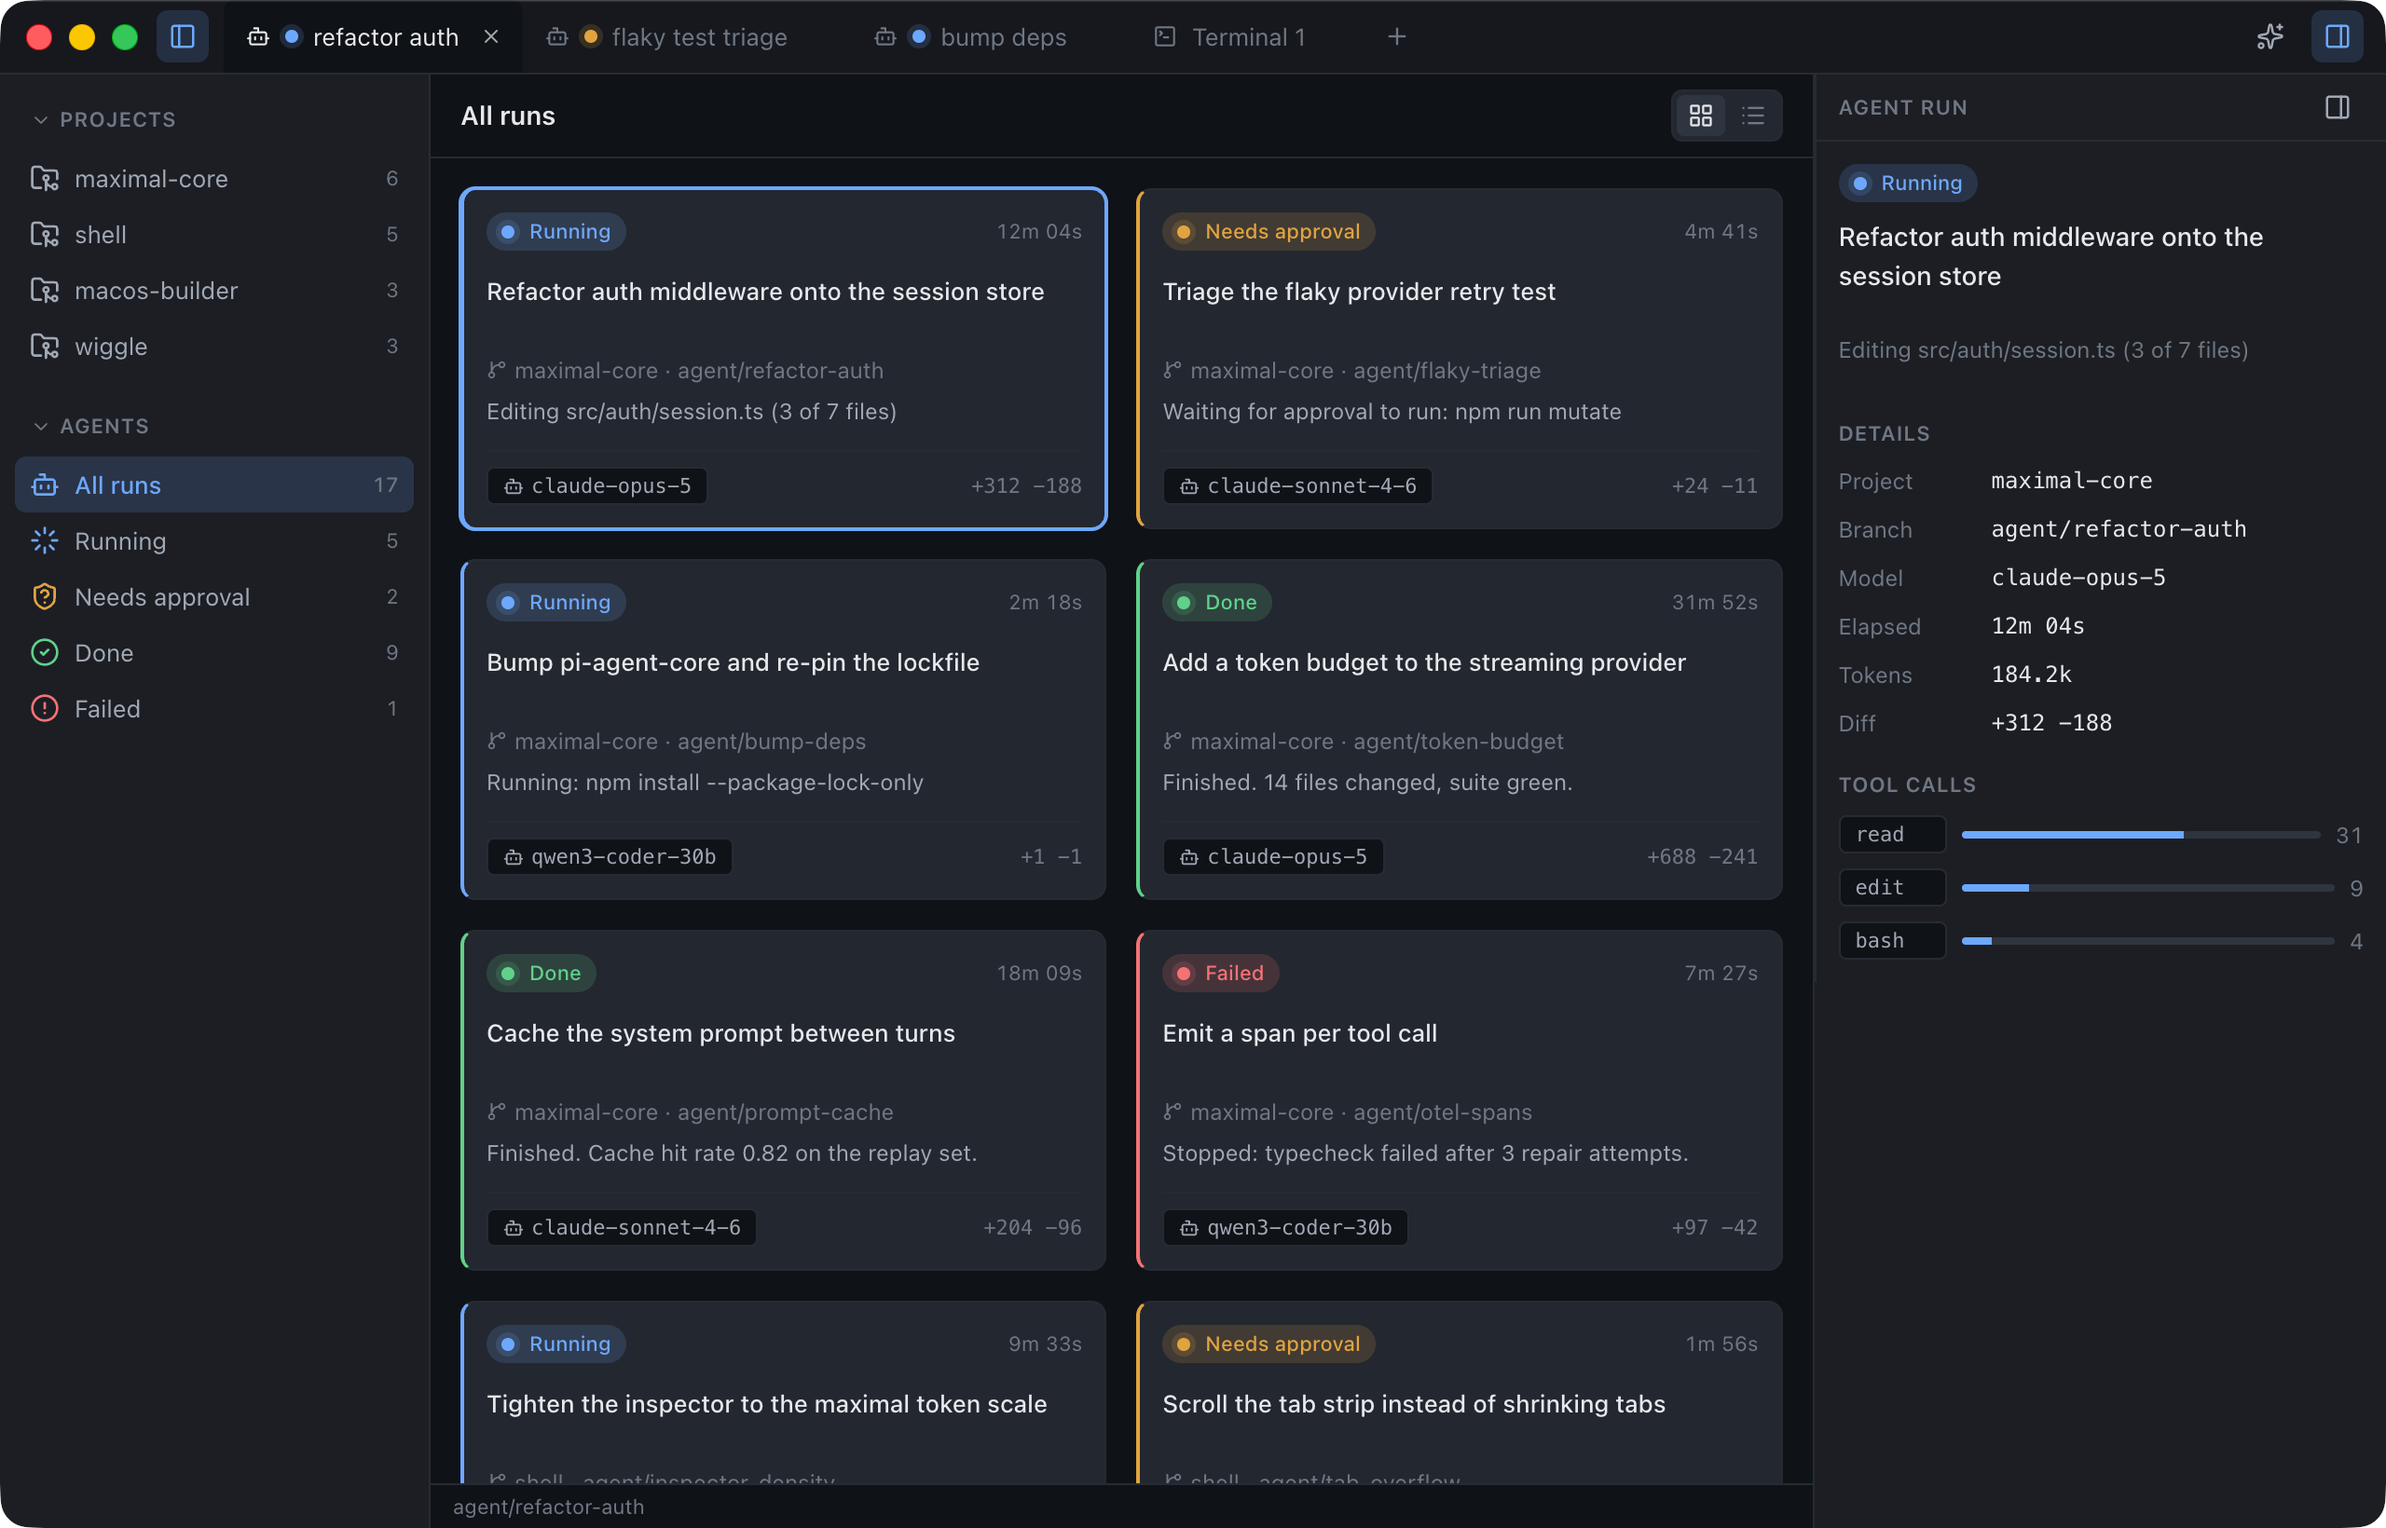
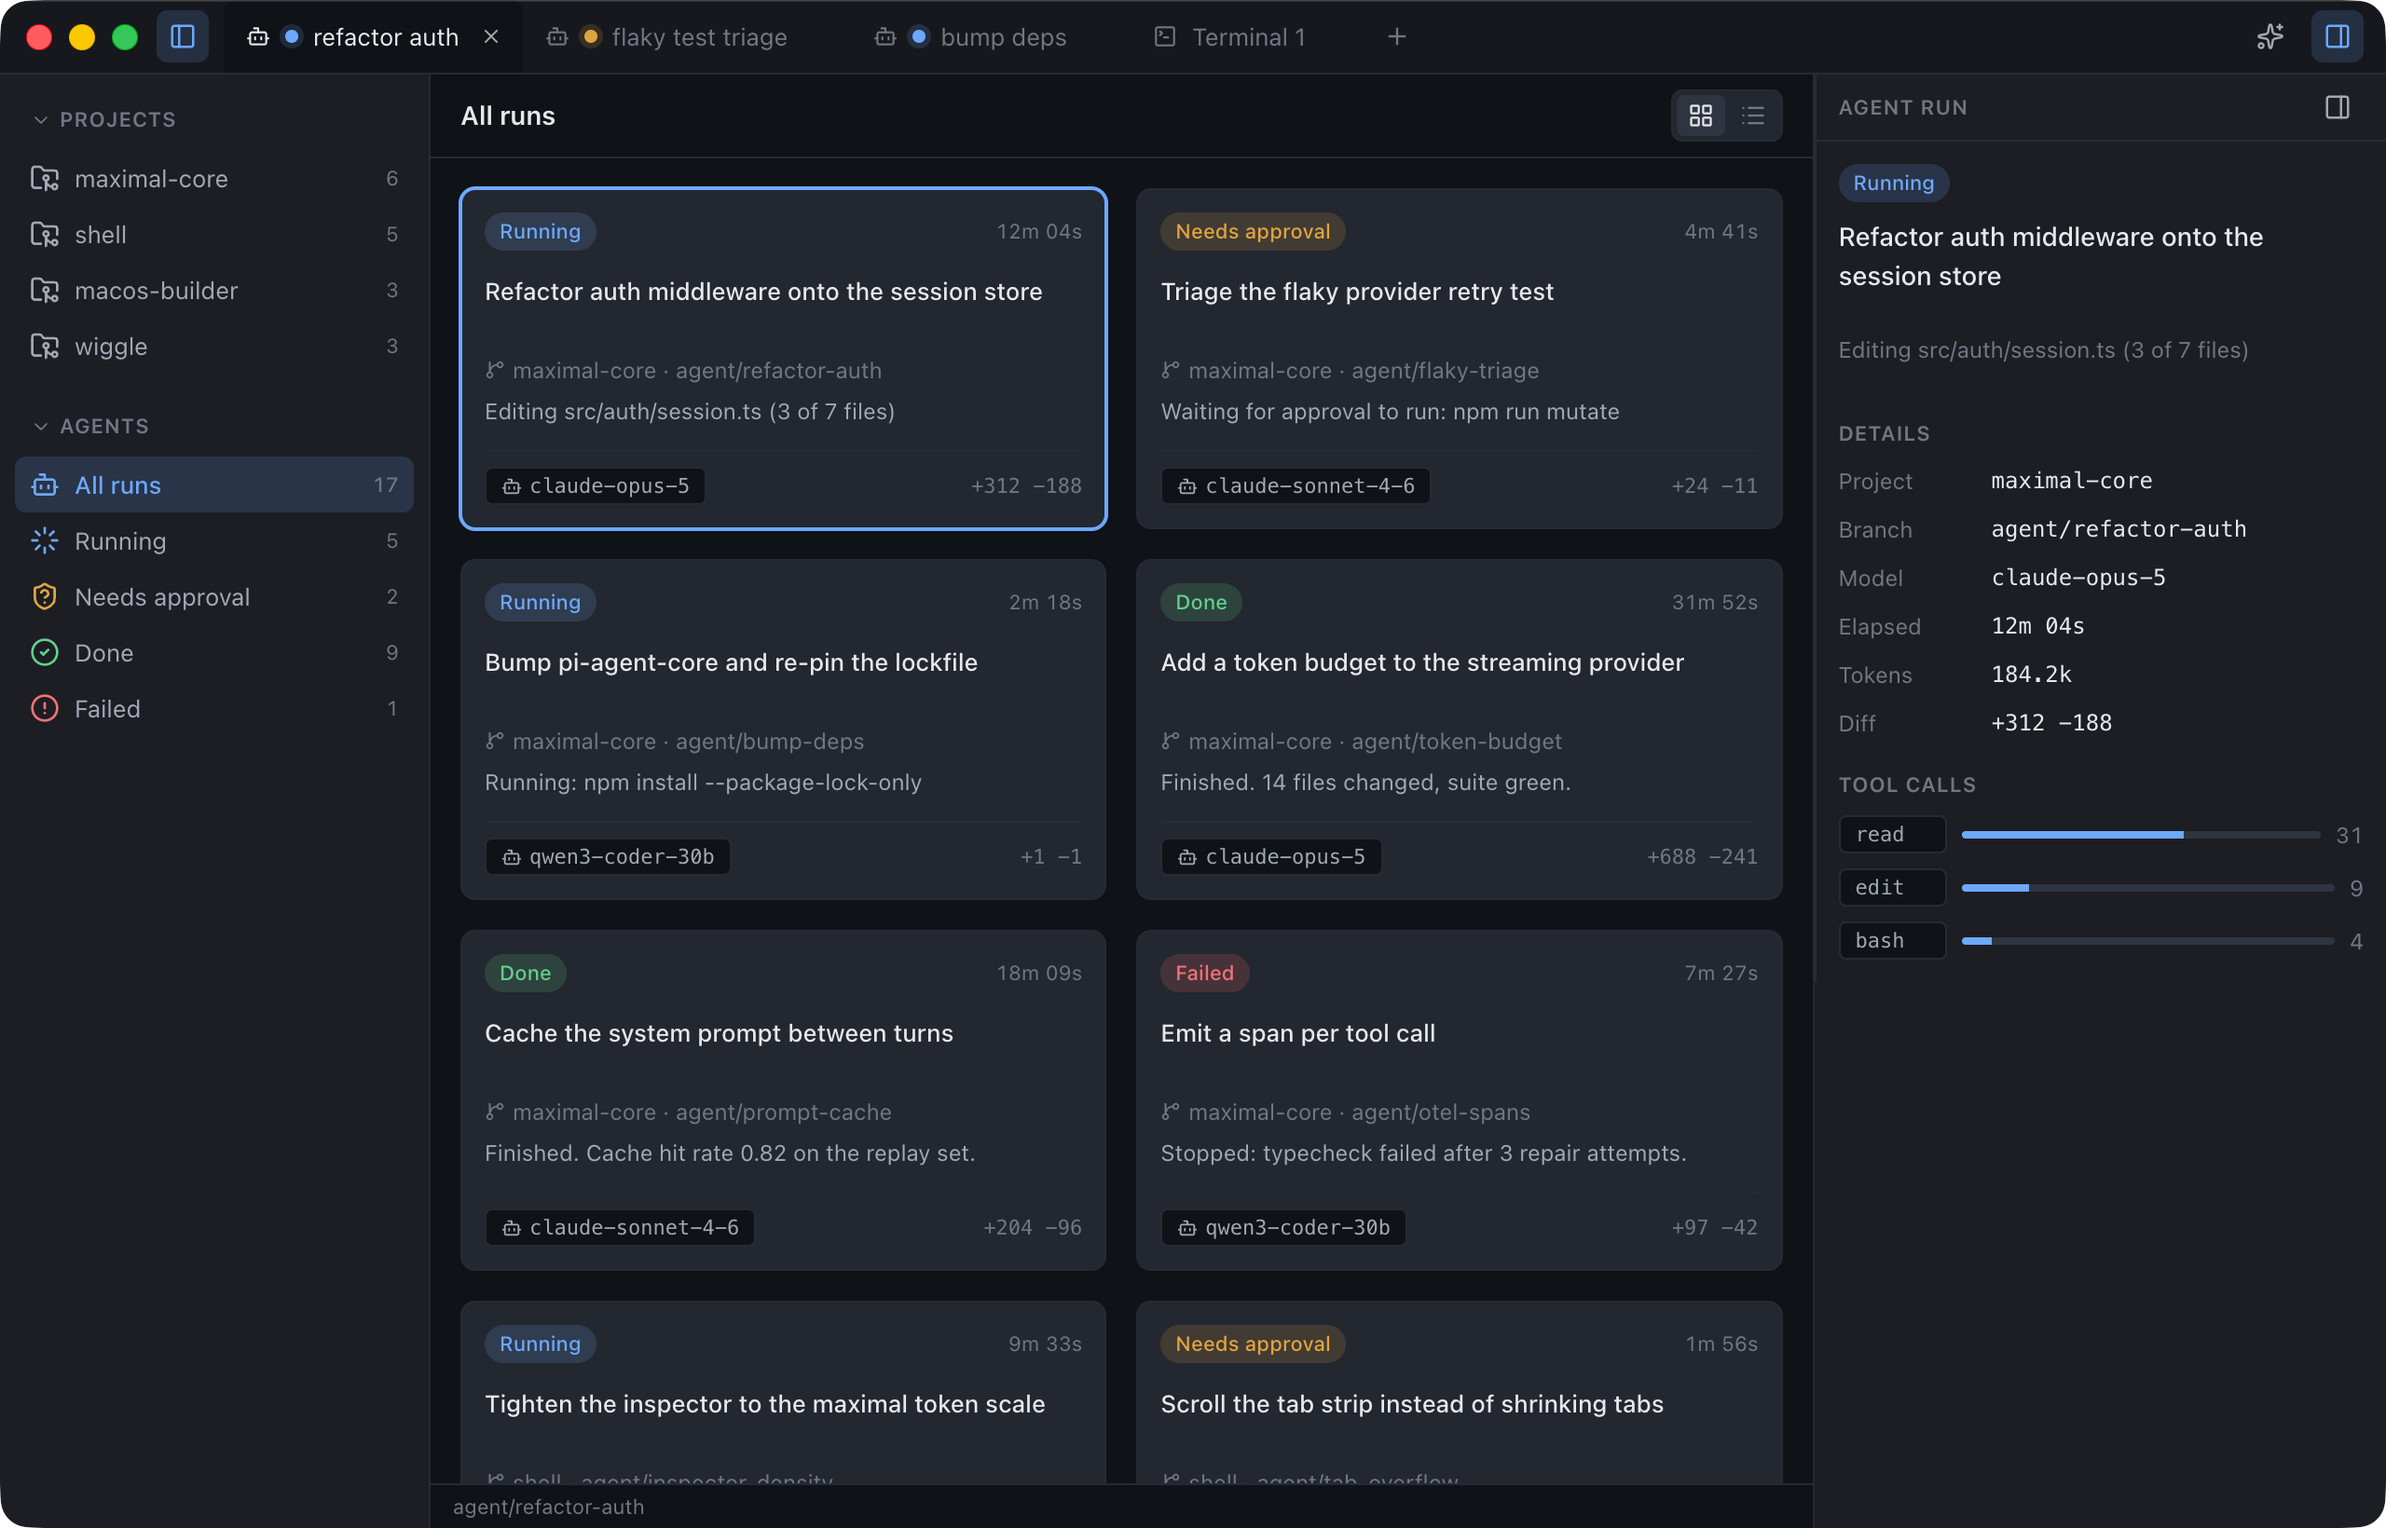
Carry a run's status on one element instead of five
Every card stated its status five ways at once: a coloured left border, the
chip's tinted fill, the chip's text colour, a dot inside the chip with a
halo behind it, and the word itself.

The dot went first. It sat inside a chip that was already the status
colour, so it added a mark and a halo to all seventeen cards and told the
reader nothing the chip had not.

The border went next, and that is the one worth explaining. It was a
full-height 2px colour strip down the left of each card, so eight of them
in view striped the grid vertically and the stripes read before any of the
content did. The chip sits in a fixed position at the head of every card,
which is scannable in the same way and takes no space of its own.

What is left is one element carrying a fill, a text colour, and the word.
The list rows and the tab strip keep their dots, because there a dot is the
only signal rather than a fourth copy of one.

diff --git a/src/renderer/styles/shell.css b/src/renderer/styles/shell.css
@@ -743,7 +743,6 @@ button {
 .chip {
   display: inline-flex;
   align-items: center;
-  gap: var(--space-2);
   padding: 2px var(--space-2);
   border-radius: var(--radius-pill);
   background: var(--status-soft, var(--bg-active));
@@ -781,8 +780,6 @@ button {
 .run-card {
   gap: var(--space-3);
   padding: var(--space-3);
-  /* The status reads before the text does. */
-  border-left: 2px solid var(--status);
 }
 
 .run-card__head {

diff --git a/src/renderer/components/demo/RunCanvas.tsx b/src/renderer/components/demo/RunCanvas.tsx
@@ -7,7 +7,6 @@ import { STATUS_LABELS, type AgentRun } from '../../lib/demo-runs.js';
 export function StatusChip({ run }: { run: AgentRun }) {
   return (
     <span className="chip" data-status={run.status}>
-      <span className="dot" data-status={run.status} />
       {STATUS_LABELS[run.status]}
     </span>
   );
